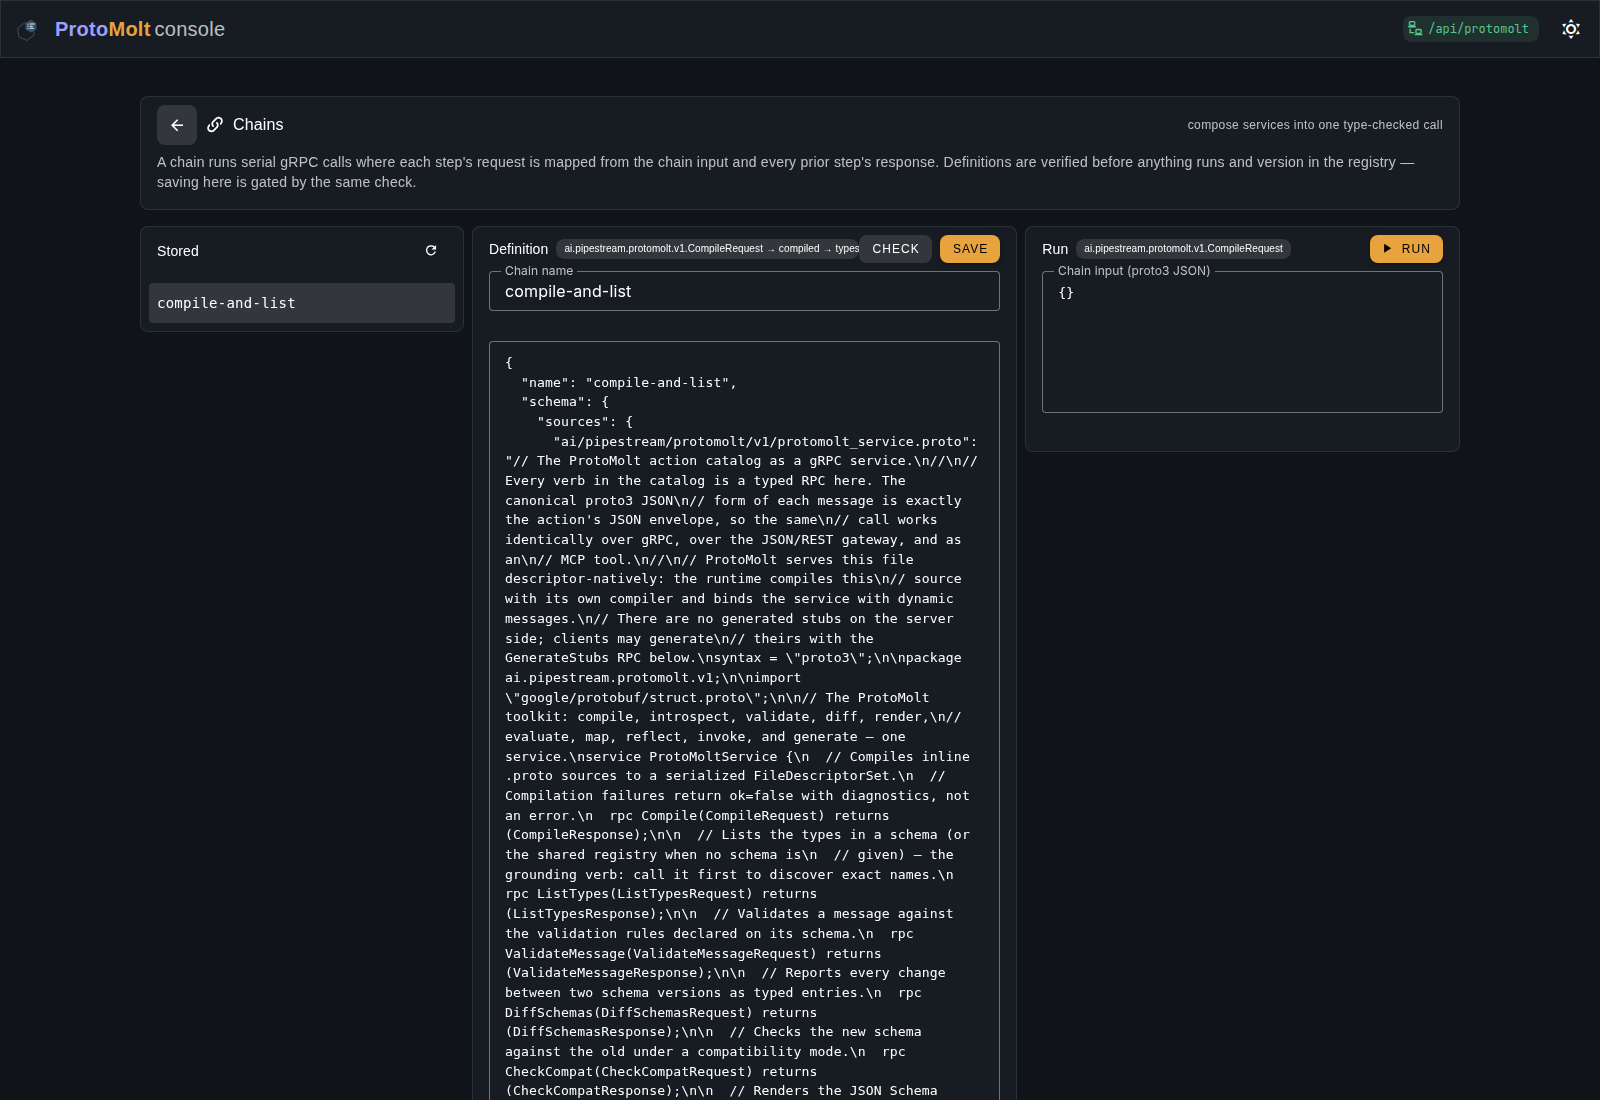
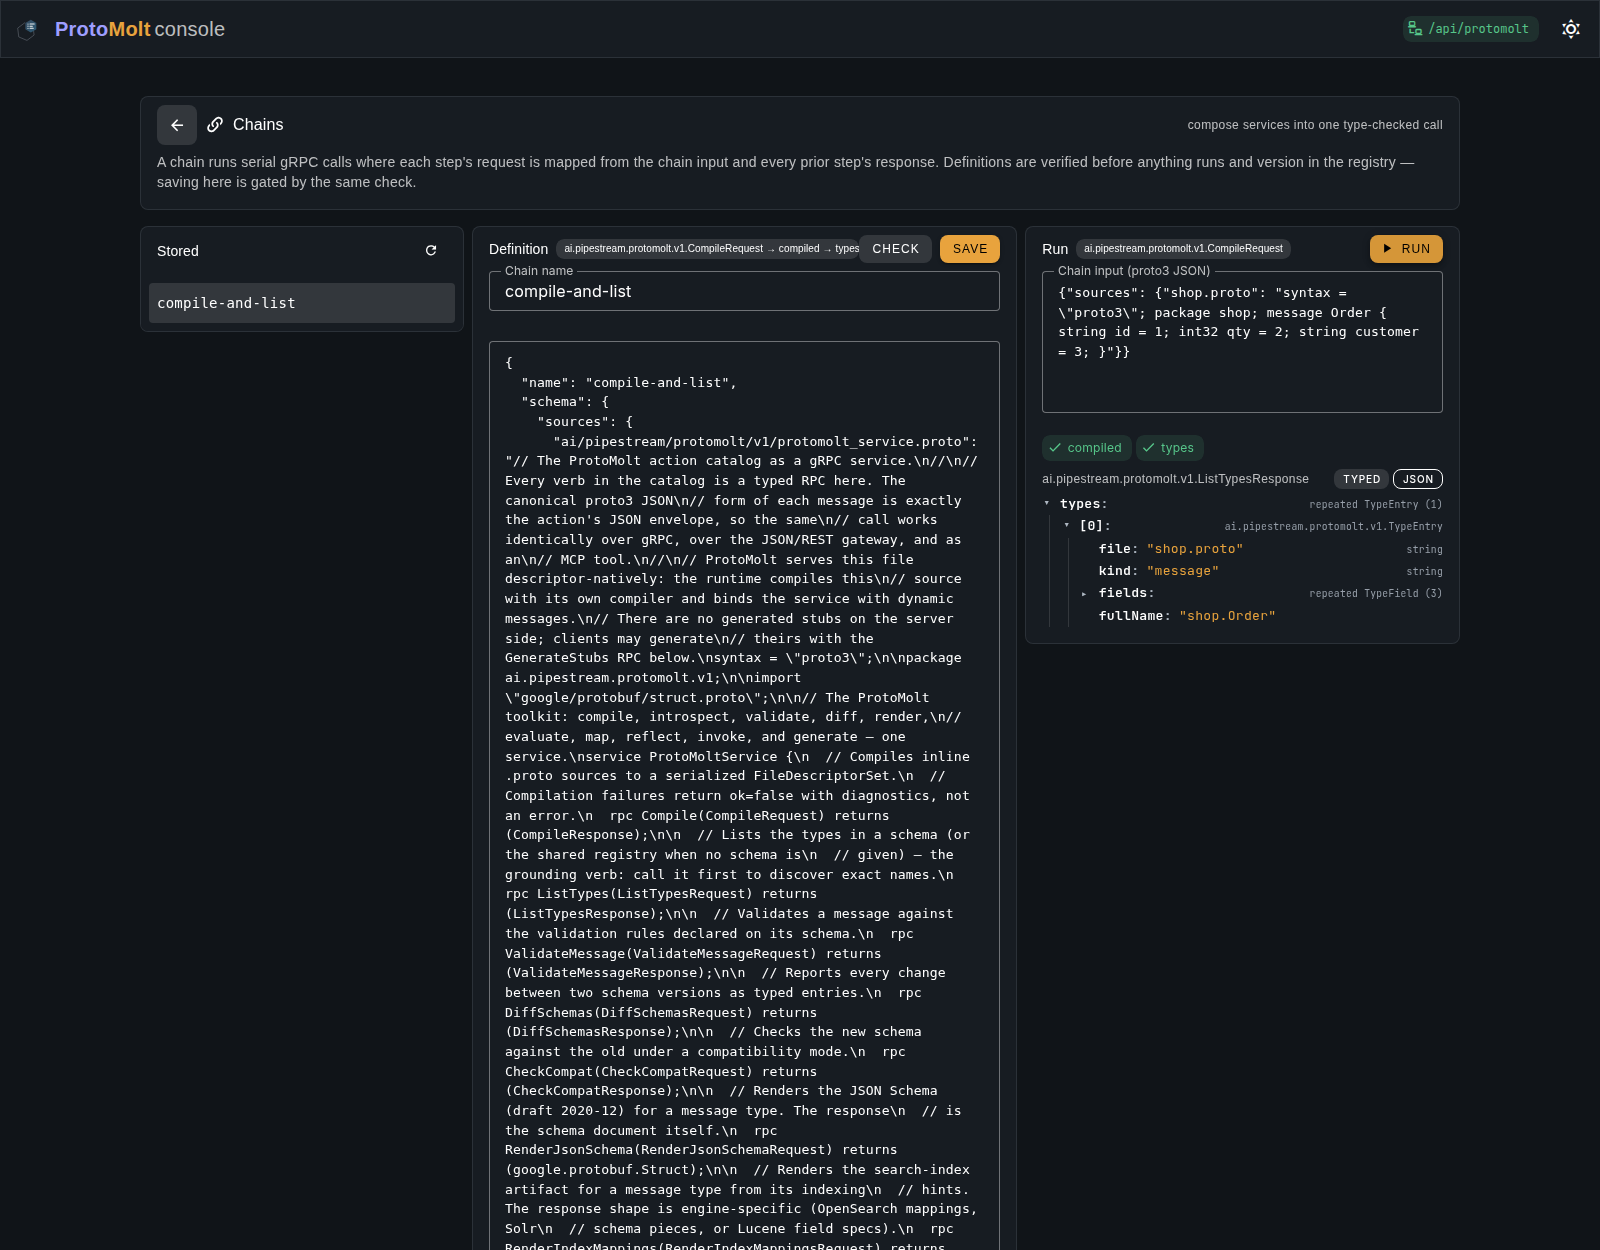
Struct-to-proto joins the highlights; chains shown with typed output
infer-schema earns its own card - JSON documents in, a governed proto
out, round-tripping the very data it came from. The chains screenshot
upgrades from a gallery link to a full image: a live run with step chips
and the descriptor-driven typed result tree.

diff --git a/protomolt/index.html b/protomolt/index.html
@@ -399,7 +399,8 @@ claude mcp add --transport http protomolt http://localhost:8080/mcp</code></pre>
                     <div class="pkg"><a class="name" href="https://github.com/ai-pipestream/protomolt/blob/main/docs/validation.md">rules live in the schema, enforced everywhere</a><p>Validation (full protovalidate conformance, re-scored by buf&rsquo;s own runner in CI), sensitivity classes with real AES-GCM field encryption, indexing hints, JSON names: declare once in the proto, and REST, Kafka, search, and agents all honor it.</p></div>
                     <div class="pkg"><a class="name" href="https://github.com/ai-pipestream/protomolt/blob/main/docs/registry.md">a schema registry that is just Git</a><p>The Confluent subjects API over a repository you already run. Every registration is a commit; history, review, and rollback are Git. Compatibility-gated writes, binary descriptor sets for gRPC consumers.</p></div>
                     <div class="pkg"><a class="name" href="https://github.com/ai-pipestream/protomolt/blob/main/docs/kafka-connect.md">Kafka &#8646; gRPC, both directions</a><p>A source that turns any server stream into a topic (CEL resume tokens survive restarts), a sink that drives any method, and protobuf-aware transforms &mdash; validate, reshape, filter, redact &mdash; that drop into pipelines you already run.</p></div>
-                    <div class="pkg"><a class="name" href="https://github.com/ai-pipestream/protomolt/blob/main/docs/design/join-shapes.md">schemas you can compute with</a><p>Merge two protos with clash resolution and get the join and union mappings free. Infer a schema from JSON samples. Join two live gRPC streams by key. Chain services into one type-checked call, verified before anything runs.</p></div>
+                    <div class="pkg"><a class="name" href="https://github.com/ai-pipestream/protomolt/blob/main/docs/actions.md">struct-to-proto: schemas from real data</a><p>Hand infer-schema your JSON documents and get a governed proto back: objects nest, arrays type their elements, numbers stay int64 only when every sample agrees, and sanitized keys keep their original spelling &mdash; the inferred schema parses the very documents it came from, and registers like any hand-written one.</p></div>
+                    <div class="pkg"><a class="name" href="https://github.com/ai-pipestream/protomolt/blob/main/docs/design/join-shapes.md">schemas you can compute with</a><p>Merge two protos with clash resolution and get the join and union mappings free. Join two live gRPC streams by key. Chain services into one type-checked call &mdash; verified before anything runs, versioned in the registry, runnable from the console.</p></div>
                     <div class="pkg"><a class="name" href="https://github.com/ai-pipestream/protomolt/blob/main/docs/building.md">no codegen, no toolchain, no disk</a><p>Proto text compiles to descriptors in memory at runtime. Stubs for eight languages come from libprotoc compiled to WebAssembly, in-process. Message data never touches disk; the two schema stores that do are paths you choose.</p></div>
                 </div>
             </div>
@@ -518,12 +519,13 @@ var result  = checker.check(oldSources, newSources, CompatibilityMode.BACKWARD);
                 <p><a href="img/console-subjects.png"><img src="img/console-subjects.png" alt="ProtoMolt console: subjects view" style="max-width: 100%; border: 1px solid var(--rule); border-radius: 8px;"></a></p>
                 <p><a href="img/console-subject-detail.png"><img src="img/console-subject-detail.png" alt="ProtoMolt console: schema view with references and declared options" style="max-width: 100%; border: 1px solid var(--rule); border-radius: 8px;"></a></p>
                 <p><a href="img/console-merge.png"><img src="img/console-merge.png" alt="ProtoMolt console: the merge workbench - clash analysis, merged proto, join and union rules" style="max-width: 100%; border: 1px solid var(--rule); border-radius: 8px;"></a></p>
+                <p><a href="img/console-chains.png"><img src="img/console-chains.png" alt="ProtoMolt console: a chain run with typed output - step chips and the descriptor-driven result tree" style="max-width: 100%; border: 1px solid var(--rule); border-radius: 8px;"></a></p>
                 <p><a href="img/console-connect.png"><img src="img/console-connect.png" alt="ProtoMolt console: connect-a-service wizard" style="max-width: 100%; border: 1px solid var(--rule); border-radius: 8px;"></a></p>
                 <div class="actions">
                     <a class="btn" href="https://github.com/ai-pipestream/protomolt/tree/main/console">The console in the repo →</a>
                     <a class="repo-link" href="img/console-types.png">the type explorer</a>
                     <a class="repo-link" href="img/console-try.png">the try-it form</a>
-                    <a class="repo-link" href="img/console-chains.png">the chains screen</a>
+
                 </div>
             </div>
         </section>
